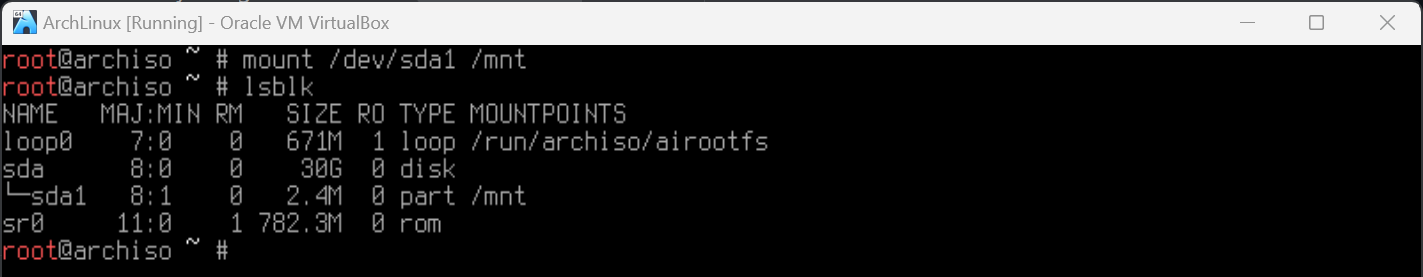
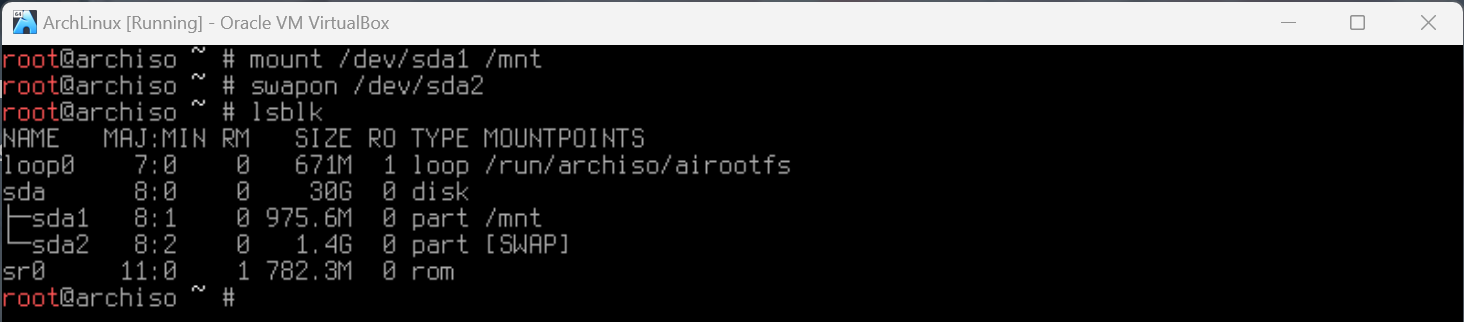
changed the filesystems sections

diff --git a/README.md b/README.md
@@ -156,9 +156,38 @@ Section 1.5 of the ArchLinux Installation Guide.
 
 ![sda1](images/ss10.png)
 
-6. Verify that the extended partition now exists by using the `fdisk -l` or `lsblk` command.
+6. Create another new partition with the following configurations:
 
-![verify sda1](images/ss11.png) 
+	- partition type: primary
+	- partition number: 2
+	- First Sector: default (hit `Enter`)
+	- Last Sector: The size of your choice, I used 5000000, which creates about 1.5Gb of storage
+
+7. Enter `w` to save changes.
+
+![sda2](images/ss17.png)
+
+8. To change the partition type for `/dev/sda2` to swap, use the following commands in order:
+
+	```
+	fdisk /dev/sda
+
+	t
+
+	2
+
+	82
+	```
+
+9. Enter `w` to save changes. 
+
+![format /dev/sda2 to swap](images/ss18.png)
+
+- Note: You can check to see if the partition type was changed correctly by using the `fdisk -l` command.
+
+8. Verify that the extended partition now exists by using the `fdisk -l` or `lsblk` command.
+
+![verify sda1 and sda2](images/ss11.png)  
 
 ## Partition Formatting
 
@@ -170,9 +199,9 @@ Section 1.5 of the ArchLinux Installation Guide.
 
 - If you created an EFI system partition, you must format it to FAT32 by using the command: `mkfs.fat -F 32 /dev/*efi-system-partition*` 
 
-- **Note:** I will be using the Ext4 file system command.
+- **Note:** I will be using the Ext4 file system command for /dev/sda1 and the swap command for /dev/sda2.
 
-![ext file system format](images/ss12.png)
+![file system format](images/ss12.png)
 
 ## Mounting the File System
 
@@ -188,7 +217,7 @@ Section 1.5 of the ArchLinux Installation Guide.
 
 3. Verify that the mount was successful by using the command: `lsblk`.
 
-- Note: `/mnt` has been added as the `MOUNTPOINTS` for `/dev/sda1`
+- Note: `/mnt` has been added as the `MOUNTPOINTS` for `/dev/sda1` and `[SWAP]` has been added as the `MOUNTPOINTS` for `/dev/sda2`
 
 ![mount point check](images/ss13.png)
 
